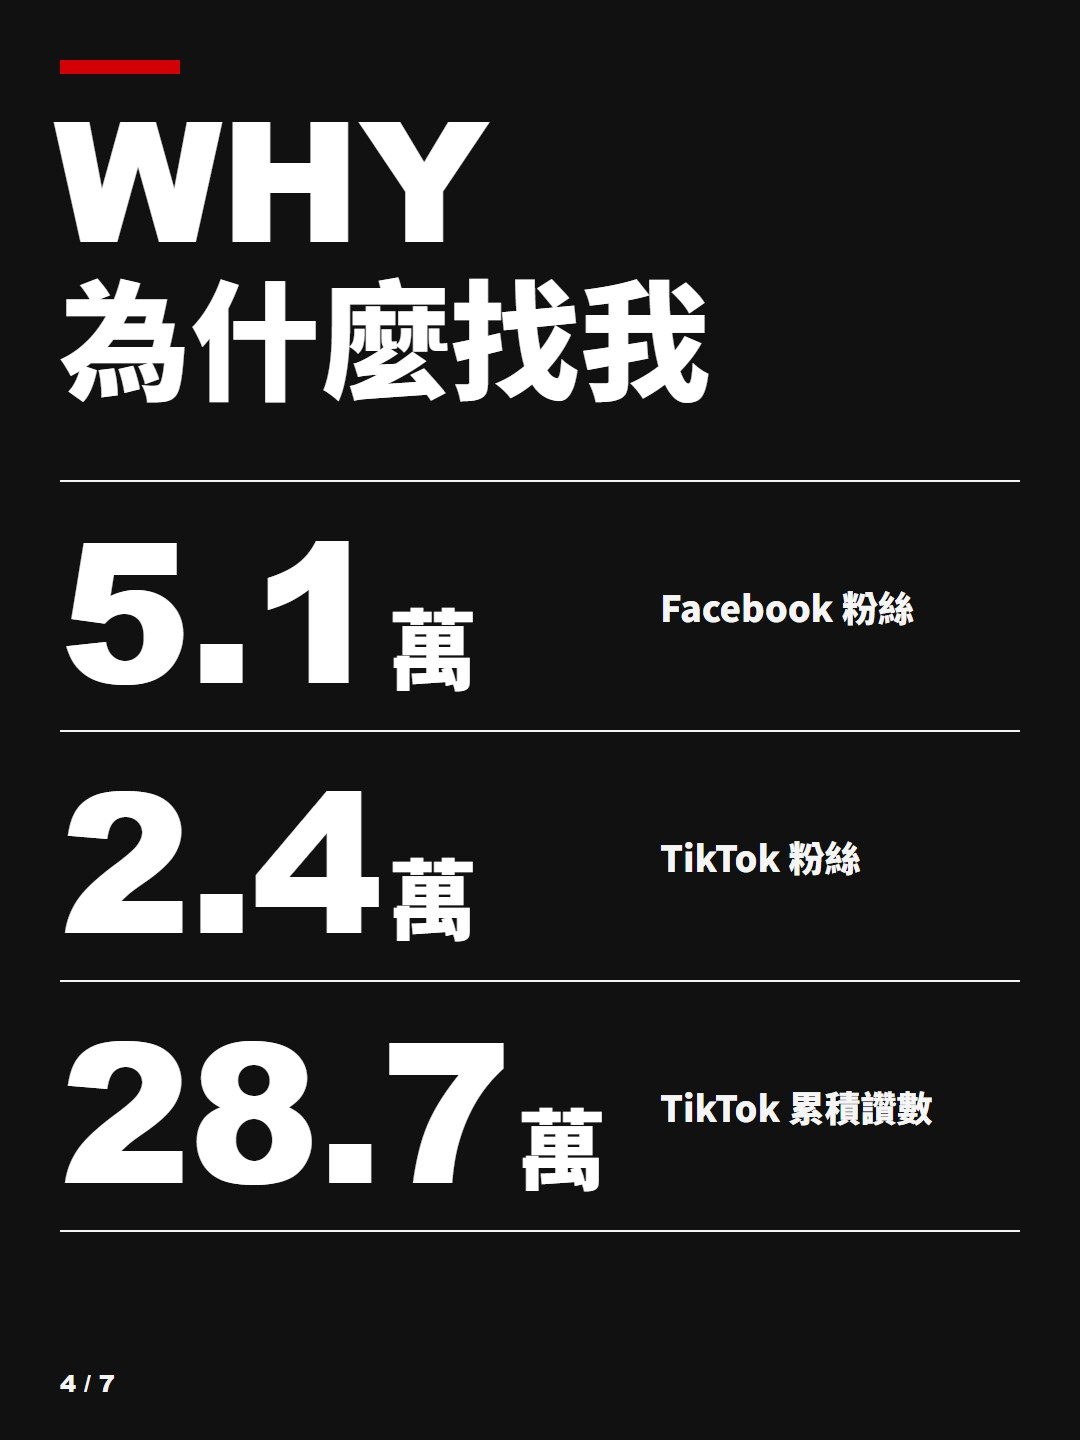
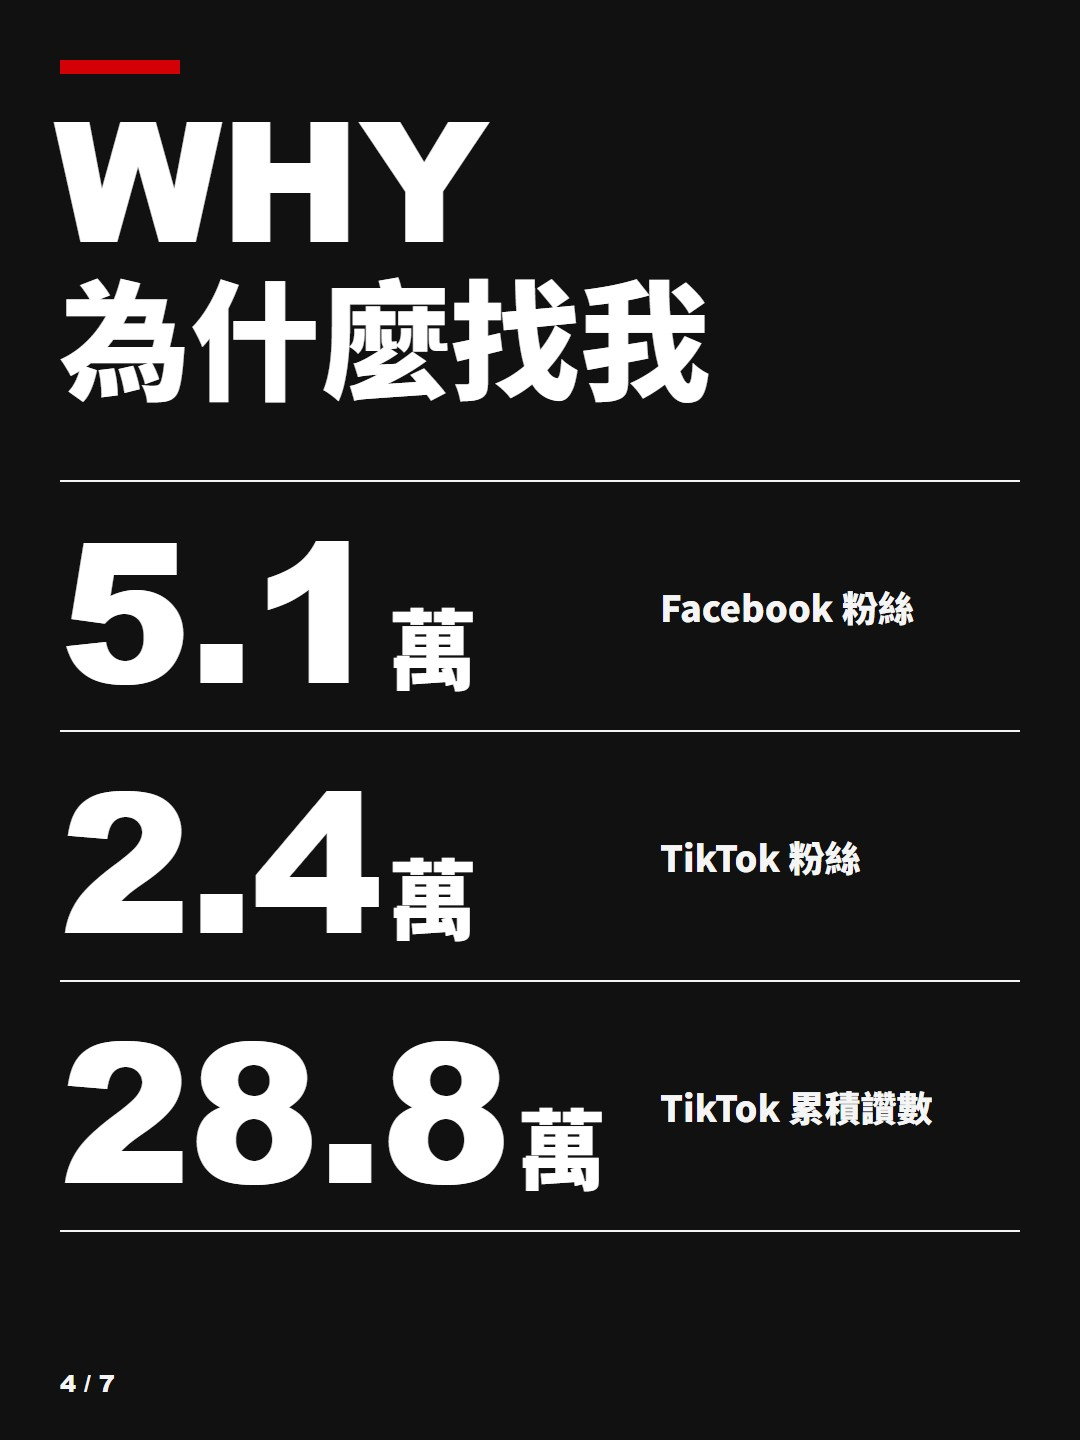
自動更新社群數字（FB 5.1萬 / TT粉 2.4萬 / TT讚 28.8萬）

Changed region(s): [[0.3361, 0.7188, 0.4889, 0.8438]]

diff --git a/index.html b/index.html
@@ -394,7 +394,7 @@
     <div class="in">
       <h2 class="sec-title"><span class="en">Why</span><em>為什麼選擇玻璃小工？</em></h2>
       <div class="stats">
-        <div><b>9 年</b><span>玻璃室內裝修資歷</span></div><div><b>5.1 萬</b><span>FB 粉絲跟著看施工</span></div><div><b>28.7 萬</b><span>TikTok 累積讚數</span></div>
+        <div><b>9 年</b><span>玻璃室內裝修資歷</span></div><div><b>5.1 萬</b><span>FB 粉絲跟著看施工</span></div><div><b>28.8 萬</b><span>TikTok 累積讚數</span></div>
       </div>
     </div>
   </section>
@@ -541,7 +541,7 @@ const CLEAN_URL = location.href.split('?')[0].split('#')[0];
 const SHARE_REDIRECT = CLEAN_URL + '?share=1';
 /* 這張名片自己的 LIFF 分享網址（不帶 src：template 是給所有客戶用的，LIFF_ID 由產生器寫入）。
    v 用來破 LINE 內建瀏覽器快取。 */
-const SHARE_URL = 'https://liff.line.me/' + LIFF_ID + '?v=2026-11-21-2100#share=1';
+const SHARE_URL = 'https://liff.line.me/' + LIFF_ID + '?v=2026-11-23-2130#share=1';
 let inPlaceInit = 0, liffInitP = null;   // 按分享時就地 liff.init 的狀態：0 未試／1 進行中／2 已試過（最多一次）
 let nestedSeen = ((function(){ try{ return decodeURIComponent(location.search); }catch(e){ return location.search; } })().match(/liff\.state/g) || []).length > 1;   // 這次載入時網址已被 LINE 疊加過
 let navLastAt = 0;                       // 上次導覽到分享頁的時間（節流）
@@ -746,7 +746,7 @@ const INLINE_FLEX = {
                   "action": {
                     "type": "uri",
                     "label": "分享名片",
-                    "uri": "https://liff.line.me/2011946176-OWaDN0zD?share=1&c=glazier&src=https%3A%2F%2Fglazier.cardtaiwan.com%2Fflex-cards.json%3Fv%3D2026-11-21-2100&v=2026-11-21-2100#share=1&c=glazier&src=https%3A%2F%2Fglazier.cardtaiwan.com%2Fflex-cards.json%3Fv%3D2026-11-21-2100"
+                    "uri": "https://liff.line.me/2011946176-OWaDN0zD?share=1&c=glazier&src=https%3A%2F%2Fglazier.cardtaiwan.com%2Fflex-cards.json%3Fv%3D2026-11-23-2130&v=2026-11-23-2130#share=1&c=glazier&src=https%3A%2F%2Fglazier.cardtaiwan.com%2Fflex-cards.json%3Fv%3D2026-11-23-2130"
                   }
                 }
               ],
@@ -953,7 +953,7 @@ const INLINE_FLEX = {
                   "action": {
                     "type": "uri",
                     "label": "分享名片",
-                    "uri": "https://liff.line.me/2011946176-OWaDN0zD?share=1&c=glazier&src=https%3A%2F%2Fglazier.cardtaiwan.com%2Fflex-cards.json%3Fv%3D2026-11-21-2100&v=2026-11-21-2100#share=1&c=glazier&src=https%3A%2F%2Fglazier.cardtaiwan.com%2Fflex-cards.json%3Fv%3D2026-11-21-2100"
+                    "uri": "https://liff.line.me/2011946176-OWaDN0zD?share=1&c=glazier&src=https%3A%2F%2Fglazier.cardtaiwan.com%2Fflex-cards.json%3Fv%3D2026-11-23-2130&v=2026-11-23-2130#share=1&c=glazier&src=https%3A%2F%2Fglazier.cardtaiwan.com%2Fflex-cards.json%3Fv%3D2026-11-23-2130"
                   }
                 }
               ],
@@ -1160,7 +1160,7 @@ const INLINE_FLEX = {
                   "action": {
                     "type": "uri",
                     "label": "分享名片",
-                    "uri": "https://liff.line.me/2011946176-OWaDN0zD?share=1&c=glazier&src=https%3A%2F%2Fglazier.cardtaiwan.com%2Fflex-cards.json%3Fv%3D2026-11-21-2100&v=2026-11-21-2100#share=1&c=glazier&src=https%3A%2F%2Fglazier.cardtaiwan.com%2Fflex-cards.json%3Fv%3D2026-11-21-2100"
+                    "uri": "https://liff.line.me/2011946176-OWaDN0zD?share=1&c=glazier&src=https%3A%2F%2Fglazier.cardtaiwan.com%2Fflex-cards.json%3Fv%3D2026-11-23-2130&v=2026-11-23-2130#share=1&c=glazier&src=https%3A%2F%2Fglazier.cardtaiwan.com%2Fflex-cards.json%3Fv%3D2026-11-23-2130"
                   }
                 }
               ],
@@ -1367,7 +1367,7 @@ const INLINE_FLEX = {
                   "action": {
                     "type": "uri",
                     "label": "分享名片",
-                    "uri": "https://liff.line.me/2011946176-OWaDN0zD?share=1&c=glazier&src=https%3A%2F%2Fglazier.cardtaiwan.com%2Fflex-cards.json%3Fv%3D2026-11-21-2100&v=2026-11-21-2100#share=1&c=glazier&src=https%3A%2F%2Fglazier.cardtaiwan.com%2Fflex-cards.json%3Fv%3D2026-11-21-2100"
+                    "uri": "https://liff.line.me/2011946176-OWaDN0zD?share=1&c=glazier&src=https%3A%2F%2Fglazier.cardtaiwan.com%2Fflex-cards.json%3Fv%3D2026-11-23-2130&v=2026-11-23-2130#share=1&c=glazier&src=https%3A%2F%2Fglazier.cardtaiwan.com%2Fflex-cards.json%3Fv%3D2026-11-23-2130"
                   }
                 }
               ],
@@ -1574,7 +1574,7 @@ const INLINE_FLEX = {
                   "action": {
                     "type": "uri",
                     "label": "分享名片",
-                    "uri": "https://liff.line.me/2011946176-OWaDN0zD?share=1&c=glazier&src=https%3A%2F%2Fglazier.cardtaiwan.com%2Fflex-cards.json%3Fv%3D2026-11-21-2100&v=2026-11-21-2100#share=1&c=glazier&src=https%3A%2F%2Fglazier.cardtaiwan.com%2Fflex-cards.json%3Fv%3D2026-11-21-2100"
+                    "uri": "https://liff.line.me/2011946176-OWaDN0zD?share=1&c=glazier&src=https%3A%2F%2Fglazier.cardtaiwan.com%2Fflex-cards.json%3Fv%3D2026-11-23-2130&v=2026-11-23-2130#share=1&c=glazier&src=https%3A%2F%2Fglazier.cardtaiwan.com%2Fflex-cards.json%3Fv%3D2026-11-23-2130"
                   }
                 }
               ],
@@ -1781,7 +1781,7 @@ const INLINE_FLEX = {
                   "action": {
                     "type": "uri",
                     "label": "分享名片",
-                    "uri": "https://liff.line.me/2011946176-OWaDN0zD?share=1&c=glazier&src=https%3A%2F%2Fglazier.cardtaiwan.com%2Fflex-cards.json%3Fv%3D2026-11-21-2100&v=2026-11-21-2100#share=1&c=glazier&src=https%3A%2F%2Fglazier.cardtaiwan.com%2Fflex-cards.json%3Fv%3D2026-11-21-2100"
+                    "uri": "https://liff.line.me/2011946176-OWaDN0zD?share=1&c=glazier&src=https%3A%2F%2Fglazier.cardtaiwan.com%2Fflex-cards.json%3Fv%3D2026-11-23-2130&v=2026-11-23-2130#share=1&c=glazier&src=https%3A%2F%2Fglazier.cardtaiwan.com%2Fflex-cards.json%3Fv%3D2026-11-23-2130"
                   }
                 }
               ],
@@ -1988,7 +1988,7 @@ const INLINE_FLEX = {
                   "action": {
                     "type": "uri",
                     "label": "分享名片",
-                    "uri": "https://liff.line.me/2011946176-OWaDN0zD?share=1&c=glazier&src=https%3A%2F%2Fglazier.cardtaiwan.com%2Fflex-cards.json%3Fv%3D2026-11-21-2100&v=2026-11-21-2100#share=1&c=glazier&src=https%3A%2F%2Fglazier.cardtaiwan.com%2Fflex-cards.json%3Fv%3D2026-11-21-2100"
+                    "uri": "https://liff.line.me/2011946176-OWaDN0zD?share=1&c=glazier&src=https%3A%2F%2Fglazier.cardtaiwan.com%2Fflex-cards.json%3Fv%3D2026-11-23-2130&v=2026-11-23-2130#share=1&c=glazier&src=https%3A%2F%2Fglazier.cardtaiwan.com%2Fflex-cards.json%3Fv%3D2026-11-23-2130"
                   }
                 }
               ],
